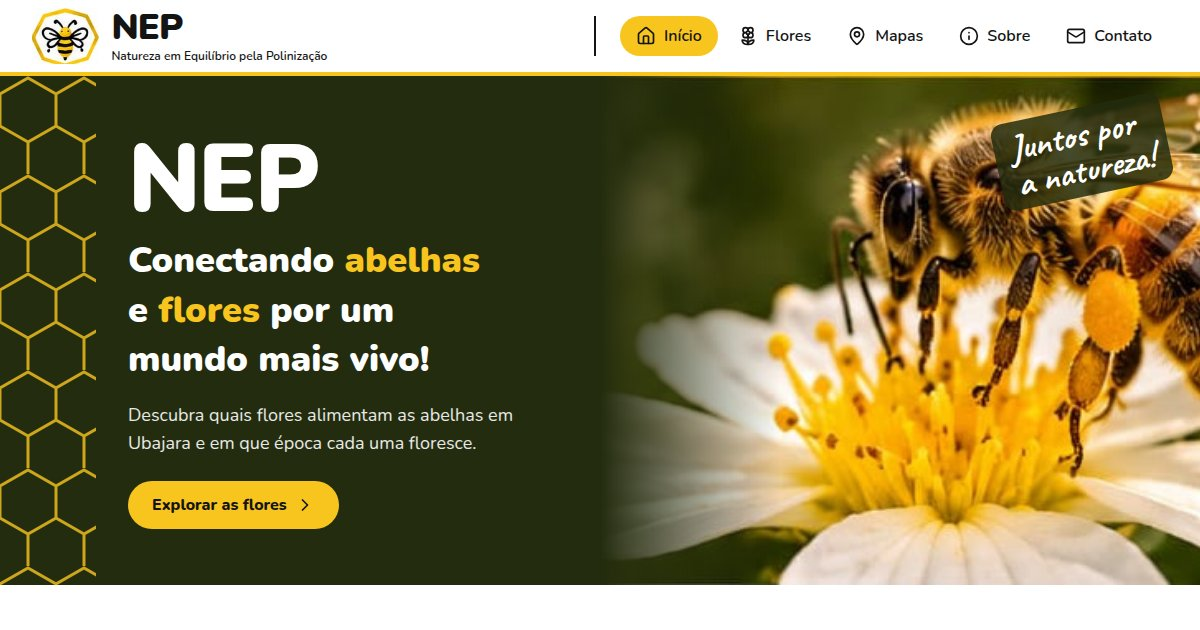
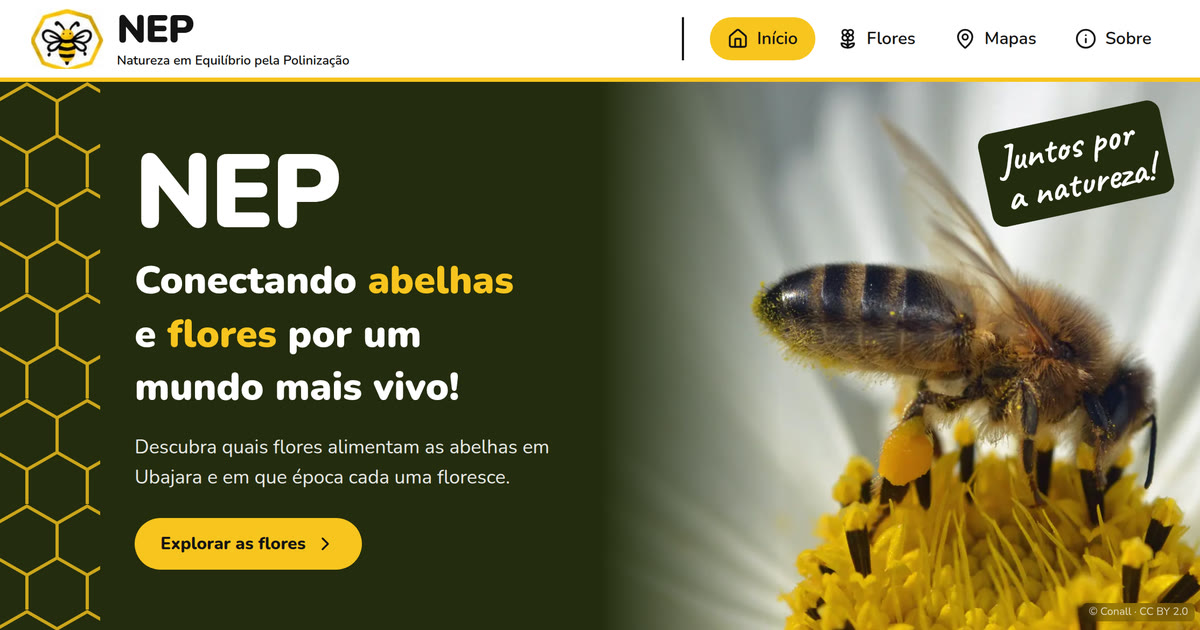
feat: lighter WebP photos, fresh share image and event QR code
- Re-encode photos as WebP from the originals (566 KB -> 292 KB) for the
  event's mobile network
- Regenerate og.jpg from the current hero; bump its URL so apps refetch it
- Add a printable QR code to the site filtered to December (evento/)
- Drop the Contato nav item until the team sends contact details

Claude-Session: https://claude.ai/code/session_018xdFJbmibr2nk8zEuXjPzb

diff --git a/index.html b/index.html
@@ -12,7 +12,7 @@
     <meta property="og:url" content="https://nep.almirdev.com/" />
     <meta property="og:title" content="NEP · Abelhas e flores de Ubajara" />
     <meta property="og:description" content="Flores que alimentam as abelhas em Ubajara (CE): quando cada espécie floresce e onde encontrá-la." />
-    <meta property="og:image" content="https://nep.almirdev.com/og.jpg" />
+    <meta property="og:image" content="https://nep.almirdev.com/og.jpg?v=2" />
     <meta property="og:image:width" content="1200" />
     <meta property="og:image:height" content="630" />
     <meta property="og:image:alt" content="Página do NEP: abelha numa flor branca e o título Conectando abelhas e flores." />
@@ -52,7 +52,6 @@
             <li><a href="#flores" class="nav-link"><i data-lucide="flower-2" class="size-5"></i>Flores</a></li>
             <li data-pendente><a href="#mapas" class="nav-link"><i data-lucide="map-pin" class="size-5"></i>Mapas</a></li>
             <li><a href="#sobre" class="nav-link"><i data-lucide="info" class="size-5"></i>Sobre</a></li>
-            <li><a href="#contato" class="nav-link"><i data-lucide="mail" class="size-5"></i>Contato</a></li>
           </ul>
         </nav>
       </div>
@@ -65,7 +64,7 @@
         <div class="mx-auto max-w-7xl">
           <div class="relative md:absolute md:inset-y-0 md:right-0 md:w-1/2">
             <img
-              src="./src/img/hero.jpg"
+              src="./src/img/hero.webp"
               alt="Abelha coletando pólen em uma flor branca"
               width="1600"
               height="960"
@@ -168,7 +167,7 @@
             </ul>
           </div>
           <div class="relative shrink-0 sm:w-40">
-            <img src="./src/img/abelha.jpg" alt="Abelha em close pousada numa flor amarela" width="560" height="420" class="h-40 w-full rounded-xl object-cover sm:h-auto" loading="lazy" />
+            <img src="./src/img/abelha.webp" alt="Abelha em close pousada numa flor amarela" width="560" height="420" class="h-40 w-full rounded-xl object-cover sm:h-auto" loading="lazy" />
             <a href="https://commons.wikimedia.org/wiki/File:Apis_mellifera_-_Brassica_napus_-_Valingu.jpg" target="_blank" rel="noopener" class="credito right-1.5 bottom-1.5" title="Ver foto original e licença">© Ivar Leidus · CC BY-SA 4.0<span class="sr-only"> (abre em nova aba)</span></a>
           </div>
         </article>

diff --git a/src/especies.js b/src/especies.js
@@ -1,7 +1,7 @@
-import ipe from './img/ipe.jpg'
-import limao from './img/limao.jpg'
-import girassol from './img/girassol.jpg'
-import maracuja from './img/maracuja.jpg'
+import ipe from './img/ipe.webp'
+import limao from './img/limao.webp'
+import girassol from './img/girassol.webp'
+import maracuja from './img/maracuja.webp'
 
 export const MESES = ['janeiro', 'fevereiro', 'março', 'abril', 'maio', 'junho', 'julho', 'agosto', 'setembro', 'outubro', 'novembro', 'dezembro']
 
